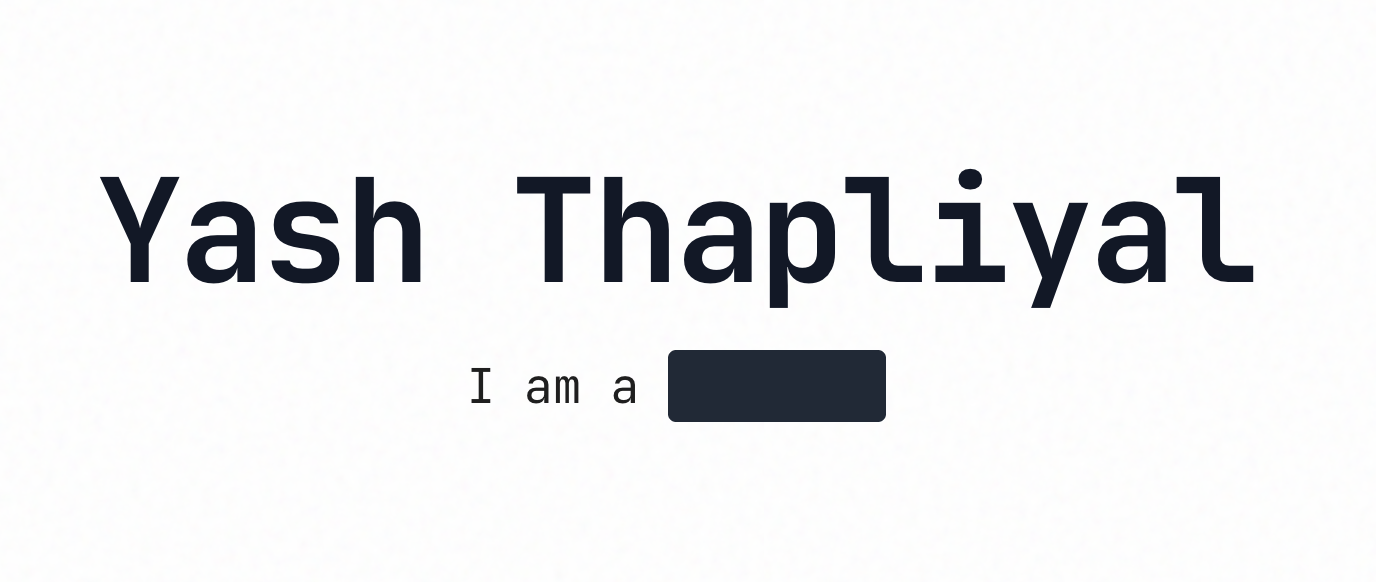
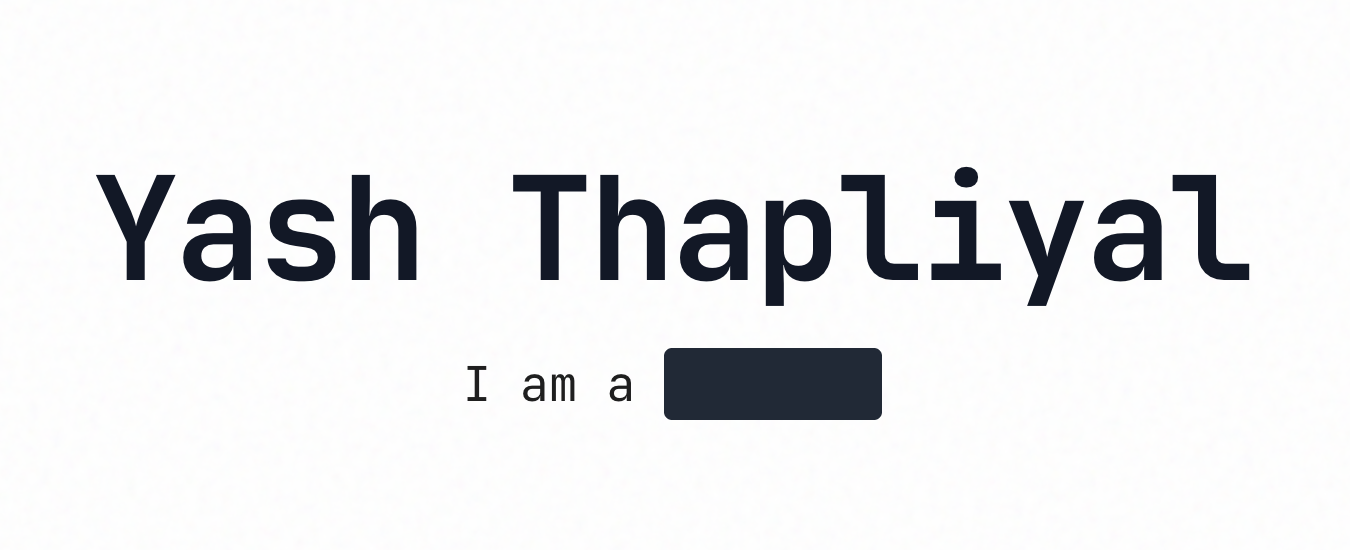
Projects page addition

Changed region(s): [[0.3733, 0.2782, 0.9333, 0.5564], [0.0622, 0.3091, 0.3111, 0.5255], [0.3422, 0.5873, 0.6533, 0.7727]]

diff --git a/src/pages/Projects.tsx b/src/pages/Projects.tsx
@@ -1,0 +1,111 @@
+import React from 'react';
+import Navigation from '@/components/Navigation';
+import { analytics } from '@/lib/analytics';
+
+const Projects = () => {
+  const softwareProjects = [
+    {
+      id: 1,
+      title: "Trail of Bits Resource Page",
+      description: "A fully responsive, auto-updating, cross-app, resource page for Trail of Bits; built with no frameworks.",
+      tags: ["Javascript", "HTML", "CSS"],
+      link: "https://www.trailofbits.com/opensource/",
+    },
+    {
+      id: 2,
+      title: "Logical Proof Generator",
+      description: "Tooling that generates entire proofs using A* search, including all intermediate steps. Constructed new grammar within Scala for scalability.",
+      tags: ["Scala"],
+      link: "https://github.com/Yash1hi/Proof-Generator-3434",
+    },
+    {
+      id: 3,
+      title: "Full Stack Medication Management System",
+      description: "Full stack web application for medication tracking and management; integrated with medication dispenser.",
+      tags: ["NodeJS", "Twilio", "PostgreSQL", "Arduino"],
+      link: "https://www.linkedin.com/posts/suctuk_i-was-fortunate-to-participate-in-the-t9hacks-ugcPost-7298820077385039872-Lhxf",
+    },
+    {
+      id: 4,
+      title: "Clean With Sqeeble",
+      description: "AI powered room cleaning app built in 2 hours for Hackbubu 2025.",
+      tags: ["NextJS", "React", "Gemini Nano Banana", "React-Camera-Kit"],
+      link: "https://github.com/Yash1hi/Clean-With-Sqeeble",
+    },
+    {
+      id: 5,
+      title: "WAV music player",
+      description: "Website for SolidAudio's WAV music player: a digital -> physical music player.",
+      tags: ["HTML/CSS"],
+      link: "https://wavmusicplayer.com/",
+    },
+    {
+      id: 6,
+      title: "NXSweep",
+      description: "Script that scans your system for the vulnerability used in the NX supply chain attack.",
+      tags: ["Typescript"],
+      link: "https://www.yashthapliyal.com/blog/nxsweep",
+    },
+    {
+      id: 7,
+      title: "Scorecard",
+      description: "AI Evaluation's platform.",
+      tags: ["NextJS", "PostgreSQL", "LiteLLM", "A Lot of Other Stuff TBH"],
+      link: "https://www.scorecard.io/",
+    },
+    {
+      id: 8,
+      title: "tiktokalytics",
+      description: "Tiktok data analytics tool.",
+      tags: ["NextJS", "ShadCN"],
+      link: "https://github.com/Yash1hi/tiktokalytics",
+    },
+    {
+      id: 9,
+      title: "LookLoom",
+      description: "A digital pixel clothing closet.",
+      tags: ["NextJS", "Gemini Nano Banana", "PostgreSQL"],
+      link: "https://lookloom.fit/",
+    },
+  ];
+
+  return (
+    <div className="min-h-screen">
+      <Navigation />
+
+      <section className="py-16 md:py-24 pt-32">
+        <div className="container px-4 mx-auto max-w-6xl">
+          <h1 className="font-mono text-4xl md:text-5xl font-bold mb-12">projects</h1>
+
+          <div className="grid grid-cols-1 md:grid-cols-2 lg:grid-cols-3 gap-8">
+            {softwareProjects.map((project) => (
+              <a
+                key={project.id}
+                href={project.link}
+                target="_blank"
+                rel="noopener noreferrer"
+                className="border border-black p-6 hover:bg-black transition-colors group"
+                onClick={() => analytics.trackExternalLink(project.link, 'project')}
+              >
+                <h2 className="font-mono text-xl font-bold mb-3 group-hover:text-white">{project.title}</h2>
+                <p className="text-sm mb-4 text-gray-700 group-hover:text-gray-200">{project.description}</p>
+                <div className="flex flex-wrap gap-2">
+                  {project.tags.map((tag, index) => (
+                    <span
+                      key={index}
+                      className="font-mono text-xs border border-black group-hover:border-white group-hover:text-white px-2 py-1"
+                    >
+                      {tag}
+                    </span>
+                  ))}
+                </div>
+              </a>
+            ))}
+          </div>
+        </div>
+      </section>
+    </div>
+  );
+};
+
+export default Projects;

diff --git a/src/components/Hero.tsx b/src/components/Hero.tsx
@@ -15,13 +15,13 @@ const Hero = () => {
   }, []);
 
   return (
-    <section className="relative min-h-screen flex items-center justify-center noise-bg">
+    <section className="relative h-screen flex items-center justify-center noise-bg overflow-hidden">
       <div className="container px-4 mx-auto text-center">
-        <h1 className={`font-mono text-5xl md:text-6xl lg:text-7xl font-bold leading-tight text-gray-900 transition-all duration-700 ${loaded ? 'opacity-100 translate-y-0' : 'opacity-0 translate-y-8'}`}>
+        <h1 className={`font-mono text-4xl sm:text-5xl md:text-6xl lg:text-7xl font-bold leading-tight text-gray-900 transition-all duration-700 ${loaded ? 'opacity-100 translate-y-0' : 'opacity-0 translate-y-8'}`}>
           Yash Thapliyal
         </h1>
-        <div className={`mt-6 transition-all duration-700 delay-100 ${loaded ? 'opacity-100 translate-y-0' : 'opacity-0 translate-y-8'}`}>
-          <p className="font-mono text-xl md:text-2xl">
+        <div className={`mt-4 sm:mt-6 transition-all duration-700 delay-100 ${loaded ? 'opacity-100 translate-y-0' : 'opacity-0 translate-y-8'}`}>
+          <p className="font-mono text-lg sm:text-xl md:text-2xl">
             I am a <span className="highlight inline-block">{roles[currentRole]}</span>
           </p>
         </div>

diff --git a/src/App.tsx b/src/App.tsx
@@ -16,6 +16,7 @@ import Sandbox from "./pages/Sandbox";
 import AllMusic from "./pages/AllMusic";
 import BrainDump from "./pages/BrainDump";
 import Contact from "./pages/Contact";
+import Projects from "./pages/Projects";
 
 const queryClient = new QueryClient();
 
@@ -48,6 +49,7 @@ const App = () => (
           <Route path="/music" element={<AllMusic />} />
           <Route path="/brain-dump" element={<BrainDump />} />
           <Route path="/contact" element={<Contact />} />
+          <Route path="/projects" element={<Projects />} />
           {/* ADD ALL CUSTOM ROUTES ABOVE THE CATCH-ALL "*" ROUTE */}
           <Route path="*" element={<NotFound />} />
         </Routes>

diff --git a/src/components/Navigation.tsx b/src/components/Navigation.tsx
@@ -17,11 +17,10 @@ const Navigation = () => {
   }, []);
 
   const navItems = [
-    { name: 'yash1photos', href: '/yash1photos' },
-    // { name: 'Software', href: '/#software' },
-    // { name: 'Skills', href: '/#skills' },
-    { name: 'Contact', href: '/contact' },
-    { name: 'Blog', href: '/blog' },
+    { name: 'nerd', href: '/projects' },
+    { name: 'performative', href: '/yash1photos' },
+    { name: 'contact', href: '/contact' },
+    { name: 'blog', href: '/blog' },
   ];
 
   return (
